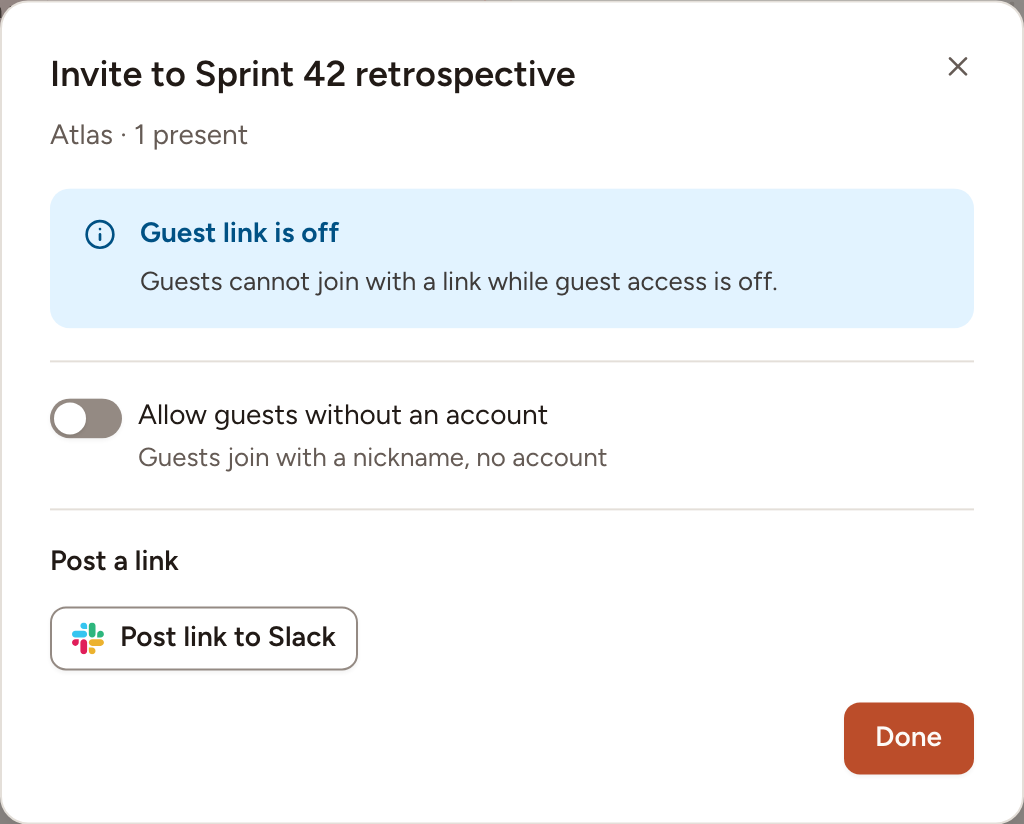
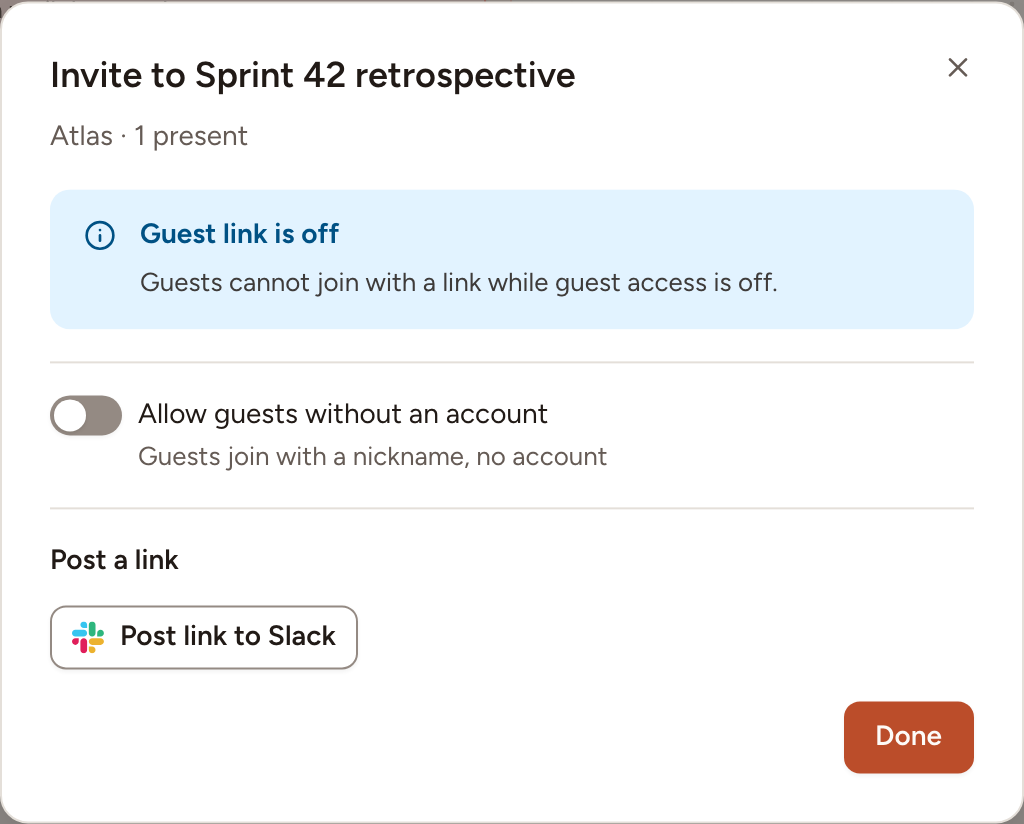
fix(ui): align labeled switches in forms

diff --git a/resources/js/components/ui/switch.tsx b/resources/js/components/ui/switch.tsx
@@ -79,7 +79,7 @@ function Switch({
         id={controlId}
         disabled={isDisabled}
         aria-describedby={describedBy === "" ? undefined : describedBy}
-        className={cn("mt-0.5", className)}
+        className={className}
         {...props}
       />
       <div className="flex min-w-0 flex-col gap-0.5">
@@ -87,7 +87,7 @@ function Switch({
           htmlFor={controlId}
           data-slot="switch-label"
           className={cn(
-            "text-sm leading-normal select-none",
+            "text-sm leading-5 select-none",
             isDisabled ? "cursor-not-allowed" : "cursor-pointer"
           )}
         >

diff --git a/tests/Browser/Visual/PokerPagesVisualTest.php b/tests/Browser/Visual/PokerPagesVisualTest.php
@@ -17,6 +17,22 @@ use App\Models\Workspace;
 use Illuminate\Cache\RateLimiting\Limit;
 use Illuminate\Support\Facades\RateLimiter;
 
+const PokerVisualShareSwitchAligned = <<<'JS'
+(() => {
+    const field = document.querySelector('[data-slot="share-dialog"] [data-slot="switch-field"]');
+    const toggle = field.querySelector('[data-slot="switch"]');
+    const thumb = field.querySelector('[data-slot="switch-thumb"]').getBoundingClientRect();
+    const track = toggle.getBoundingClientRect();
+    const label = field.querySelector('[data-slot="switch-label"]');
+    const labelBox = label.getBoundingClientRect();
+    const labelCenter = labelBox.top + parseFloat(getComputedStyle(label).lineHeight) / 2;
+    const startInset = toggle.dataset.state === 'checked' ? track.right - thumb.right : thumb.left - track.left;
+    return Math.abs((track.top + track.bottom) / 2 - labelCenter) < 1
+        && Math.abs((thumb.top - track.top) - (track.bottom - thumb.bottom)) < 1
+        && Math.abs(startInset - (thumb.top - track.top)) < 1;
+})()
+JS;
+
 const PokerVisualOvalInView = <<<'JS'
 (() => {
     const oval = document.querySelector('[data-slot="poker-oval"]').getBoundingClientRect();
@@ -216,6 +232,12 @@ it('renders the share dialog of the facilitator without overflow', function () {
         fn (string $path, array $options) => pokerVisualRoom($facilitator, $path, $options)
             ->click('[data-slot="poker-share"]')
             ->assertPresent('[data-slot="share-dialog"] #poker-guest-link-access')
+            ->assertScript(PokerVisualShareSwitchAligned, true)
+            ->click('#poker-guest-link-access')
+            ->assertAttribute('#poker-guest-link-access', 'aria-checked', 'true')
+            ->assertScript(PokerVisualShareSwitchAligned, true)
+            ->click('#poker-guest-link-access')
+            ->assertAttribute('#poker-guest-link-access', 'aria-checked', 'false')
             ->assertNotPresent('[data-slot="share-dialog"] input[aria-label]'),
     );
 });
